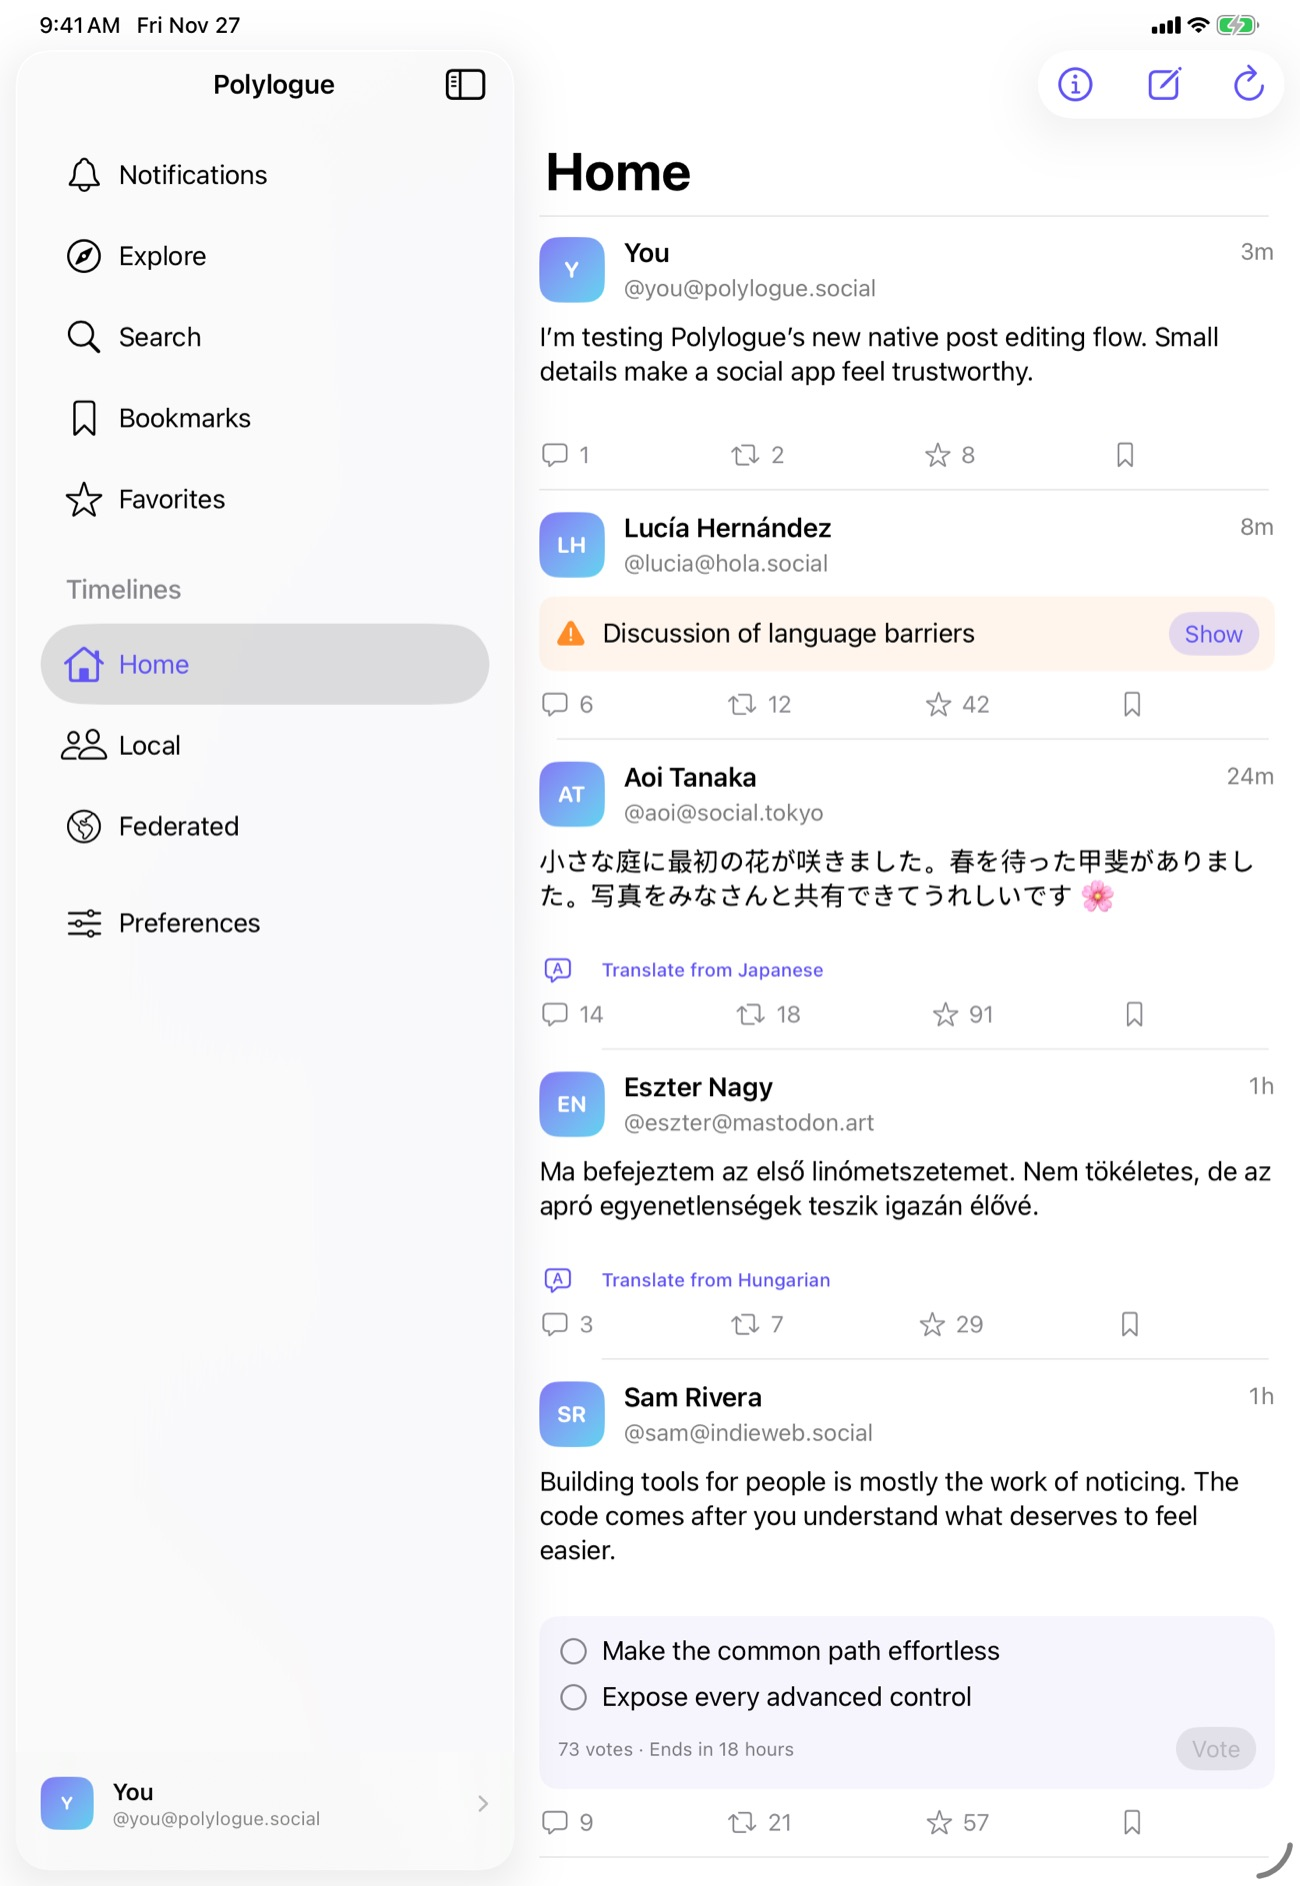
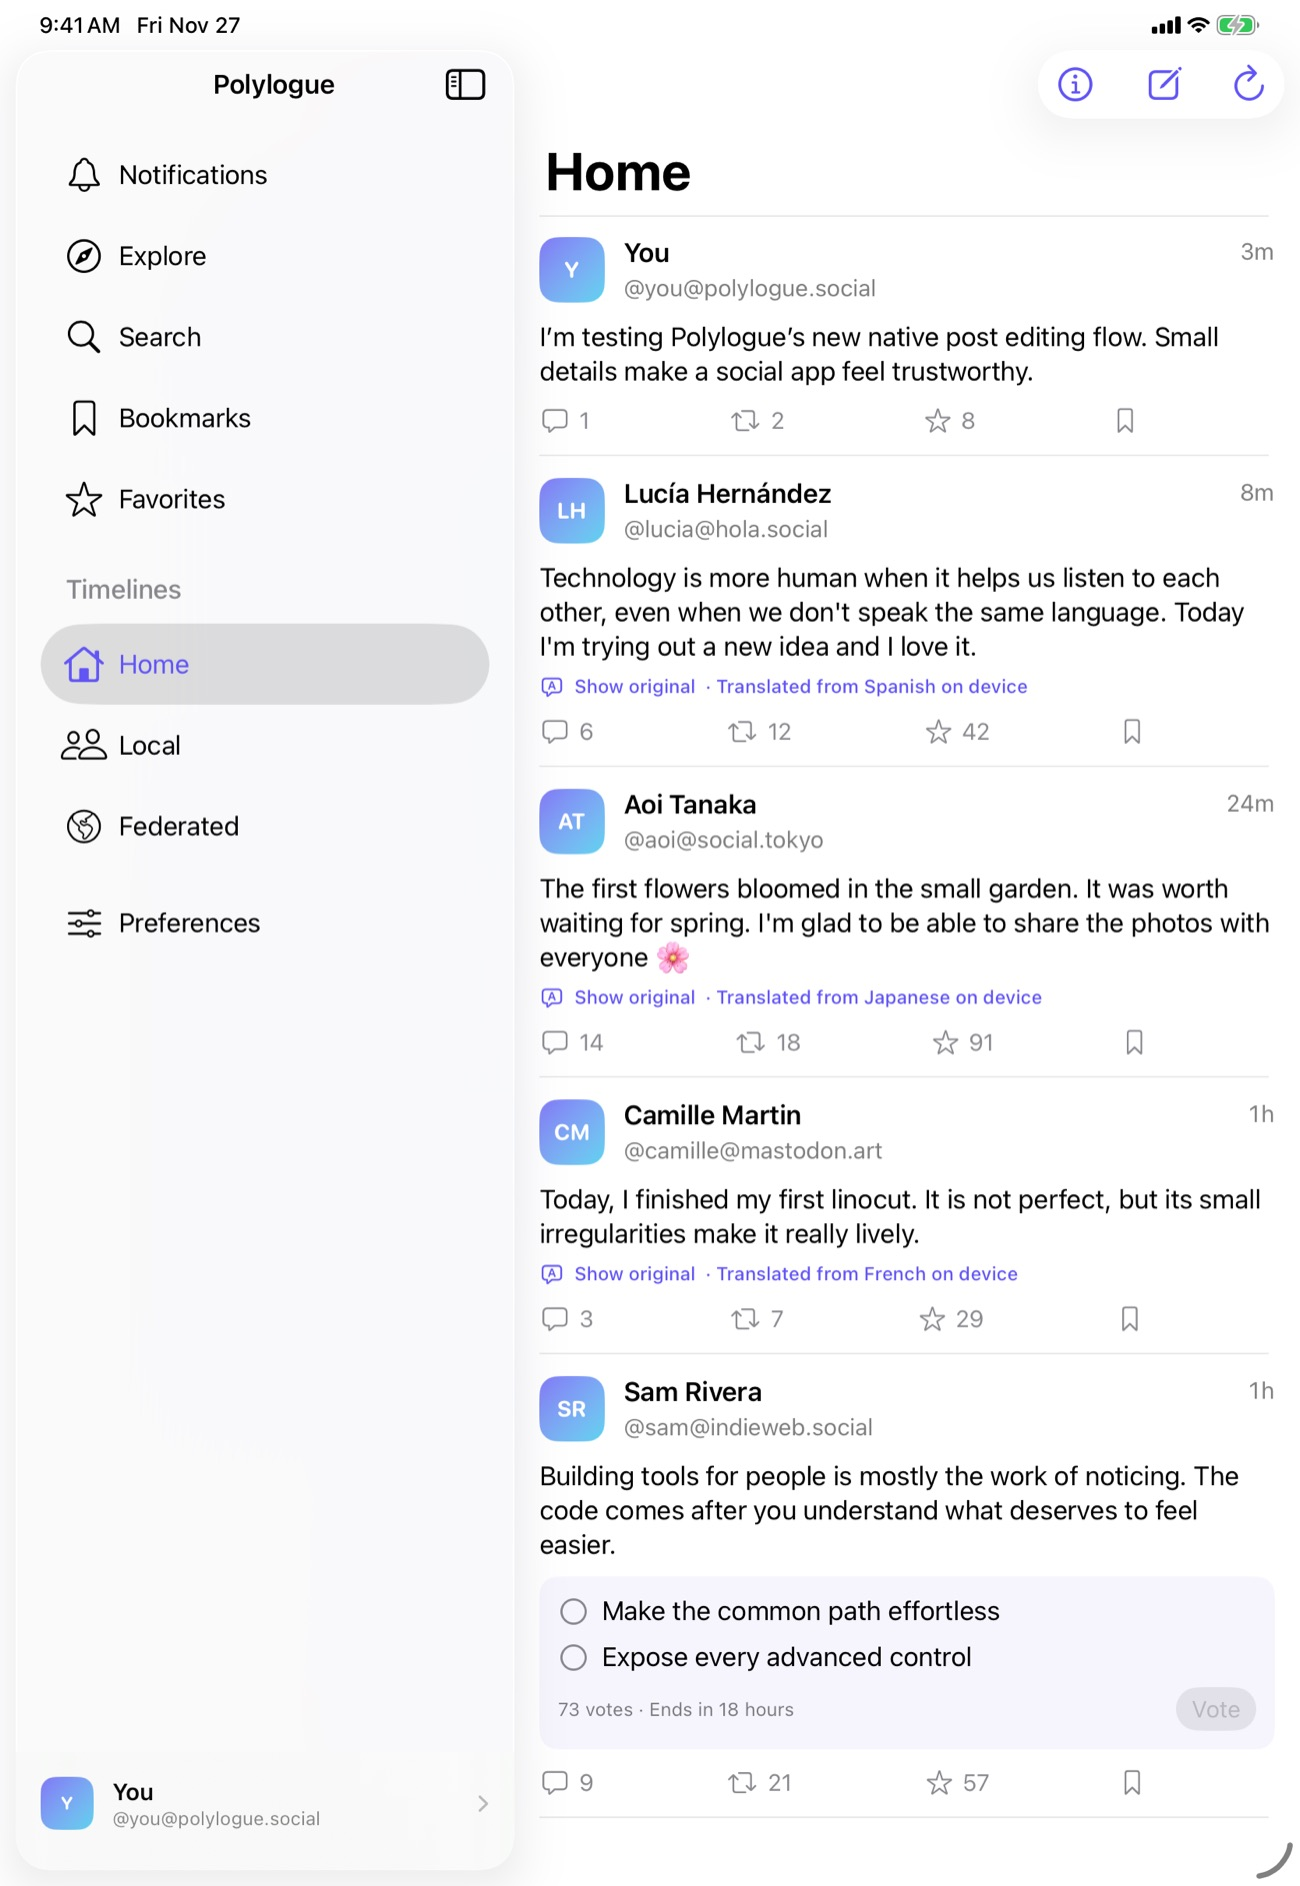
Polylogue screenshots: show posts translated on device

diff --git a/src/pages/polylogue/index.html b/src/pages/polylogue/index.html
@@ -16,13 +16,13 @@ description: Polylogue is a native Mastodon app for iPhone, iPad and Mac that tr
 <div class="ipad-main device">
 <picture>
 <source media="(prefers-color-scheme: dark)" srcset="/polylogue/assets/shots/ipad-dark.jpg">
-<img src="/polylogue/assets/shots/ipad-light.jpg" width="1300" height="1886" alt="Polylogue on an iPad: the sidebar with timelines beside a Home timeline with posts in English, Japanese and Hungarian.">
+<img src="/polylogue/assets/shots/ipad-light.jpg" width="1300" height="1886" alt="Polylogue on an iPad: the sidebar beside a Home timeline where posts written in Spanish, Japanese and French appear in English, each marked as translated on device.">
 </picture>
 </div>
 <div class="phone device">
 <picture>
 <source media="(prefers-color-scheme: dark)" srcset="/polylogue/assets/shots/iphone-dark.jpg">
-<img src="/polylogue/assets/shots/iphone-light.jpg" width="700" height="1522" alt="Polylogue on an iPhone showing a content warning and a Translate from Japanese button under a post.">
+<img src="/polylogue/assets/shots/iphone-light.jpg" width="700" height="1522" alt="Polylogue on an iPhone showing Spanish and Japanese posts translated into English, with a Show original button under each.">
 </picture>
 </div>
 </div>

diff --git a/polylogue/index.html b/polylogue/index.html
@@ -50,13 +50,13 @@
 <div class="ipad-main device">
 <picture>
 <source media="(prefers-color-scheme: dark)" srcset="/polylogue/assets/shots/ipad-dark.jpg">
-<img src="/polylogue/assets/shots/ipad-light.jpg" width="1300" height="1886" alt="Polylogue on an iPad: the sidebar with timelines beside a Home timeline with posts in English, Japanese and Hungarian.">
+<img src="/polylogue/assets/shots/ipad-light.jpg" width="1300" height="1886" alt="Polylogue on an iPad: the sidebar beside a Home timeline where posts written in Spanish, Japanese and French appear in English, each marked as translated on device.">
 </picture>
 </div>
 <div class="phone device">
 <picture>
 <source media="(prefers-color-scheme: dark)" srcset="/polylogue/assets/shots/iphone-dark.jpg">
-<img src="/polylogue/assets/shots/iphone-light.jpg" width="700" height="1522" alt="Polylogue on an iPhone showing a content warning and a Translate from Japanese button under a post.">
+<img src="/polylogue/assets/shots/iphone-light.jpg" width="700" height="1522" alt="Polylogue on an iPhone showing Spanish and Japanese posts translated into English, with a Show original button under each.">
 </picture>
 </div>
 </div>

diff --git a/README.md b/README.md
@@ -27,7 +27,7 @@ JavaScript (`assets/site.js`).
 | `src/pages/polylogue/` | Overview, Features and Support |
 | `src/guide-polylogue/` | The Polylogue User Guide (Markdown, same headings as Pilcrow's) |
 | `Polylogue/privacy-policy.md` in `PluriaLabs/Policies-and-Licenses` | The privacy policy, English only. `--policies` names Pilcrow's folder; Polylogue's is found beside it |
-| `polylogue/assets/` | Icons and screenshots (taken in the iOS Simulator with the demo account) |
+| `polylogue/assets/` | Icons and screenshots. The Simulator cannot run Apple Translation, so these come from a scratch copy of the app (demo account, with the Hungarian sample swapped for French) whose translation cache was filled with Apple on-device translations made on a Mac |
 | `polylogue/` (HTML), `assets/polylogue-guide-index.json` | Build output |
 
 Before Polylogue's launch: add the App Store link, set the policy's effective date, and update the
